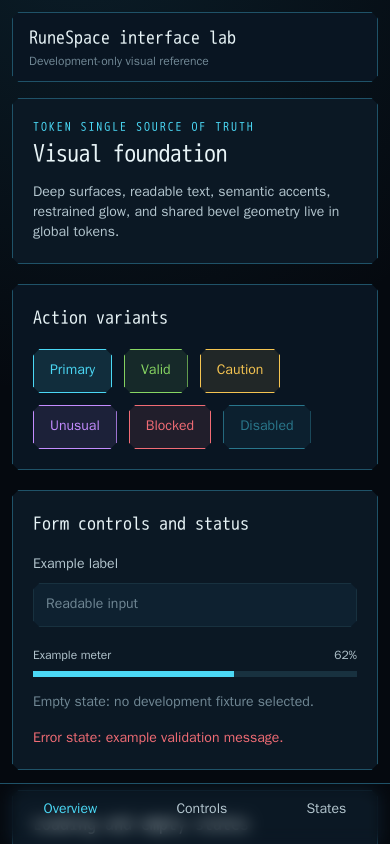
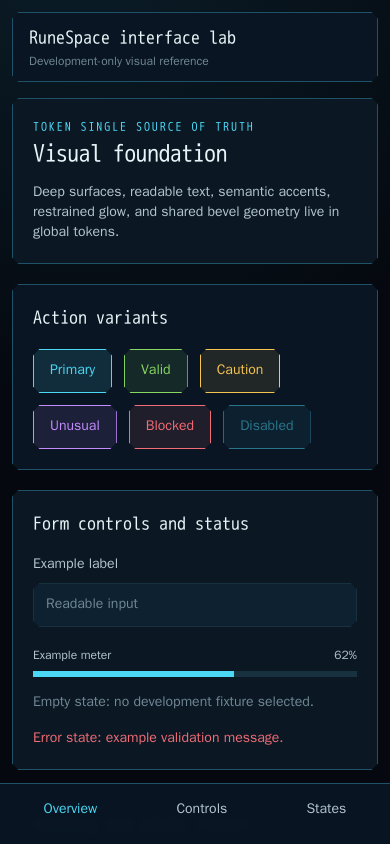
Polish mobile bottom navigation

Changed region(s): [[0.0923, 0.955, 0.6462, 1.0]]

diff --git a/tests/e2e/design-system.spec.ts b/tests/e2e/design-system.spec.ts
@@ -53,6 +53,22 @@ test.describe("development design-system preview", () => {
     expect(width).toBeLessThanOrEqual(390);
   });
 
+  test("final panel clears the fixed navigation when scrolled to the bottom", async ({ page }) => {
+    await page.setViewportSize({ width: 390, height: 844 });
+    await page.goto("/design-system");
+    await page.evaluate(() => window.scrollTo(0, document.documentElement.scrollHeight));
+
+    const panel = page.locator("#states");
+    const navigation = page.getByRole("navigation", { name: "Primary" });
+    const [panelBox, navigationBox] = await Promise.all([
+      panel.boundingBox(),
+      navigation.boundingBox(),
+    ]);
+    expect(panelBox).not.toBeNull();
+    expect(navigationBox).not.toBeNull();
+    expect(panelBox!.y + panelBox!.height).toBeLessThanOrEqual(navigationBox!.y);
+  });
+
   test("captures deterministic review screenshots", async ({ page }, testInfo) => {
     const viewport =
       testInfo.project.name === "mobile"

diff --git a/components/ui/GameShell.tsx b/components/ui/GameShell.tsx
@@ -13,7 +13,7 @@ export function BottomNav({ children }: { children: ReactNode }) {
   return (
     <nav
       aria-label="Primary"
-      className="bg-[color:var(--rs-surface-raised)]/95 fixed inset-x-0 bottom-0 z-10 border-t border-[color:var(--rs-border-structural)] p-2 pb-[max(0.5rem,env(safe-area-inset-bottom))] backdrop-blur"
+      className="fixed inset-x-0 bottom-0 z-10 border-t border-[color:var(--rs-border-structural)] bg-[color:var(--rs-surface-navigation)] p-2 pb-[max(0.5rem,env(safe-area-inset-bottom))] backdrop-blur-sm"
     >
       {children}
     </nav>

diff --git a/app/globals.css b/app/globals.css
@@ -6,6 +6,7 @@
   color-scheme: dark;
   --rs-surface-page: #05090f;
   --rs-surface-raised: #091522;
+  --rs-surface-navigation: rgb(9 21 34 / 0.985);
   --rs-surface-panel: #0b1824;
   --rs-surface-control: #0e2130;
   --rs-text-primary: #e8f4f7;